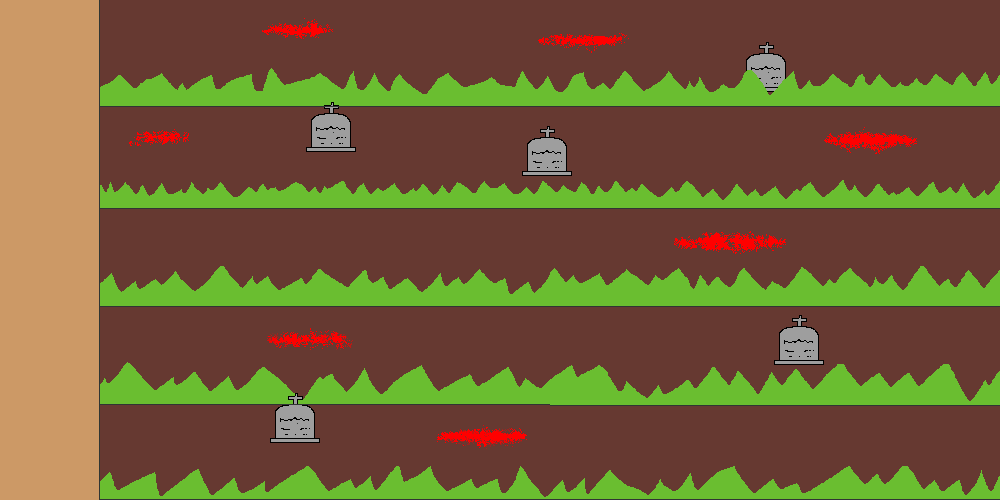
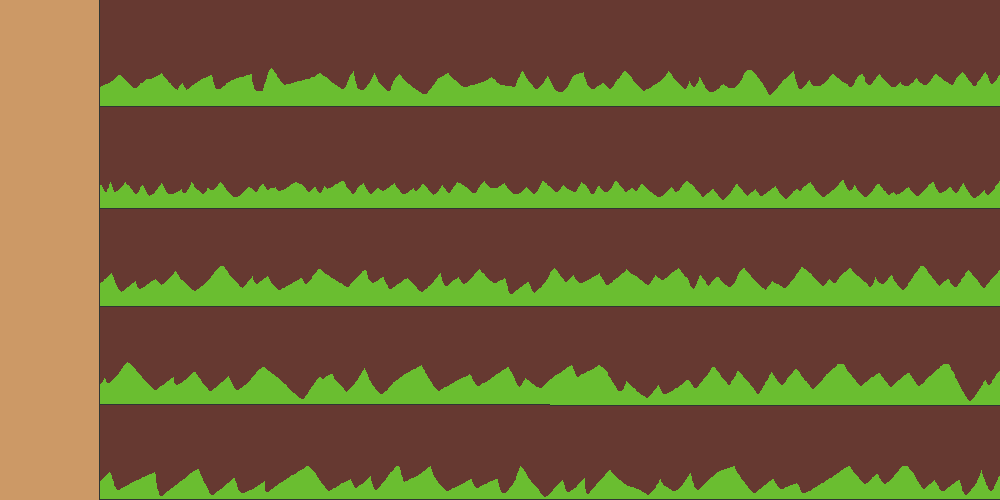
change background

diff --git a/sketch.js b/sketch.js
@@ -91,9 +91,6 @@ function preload()
     howToPlay_preload();
     credit_preload();
     hit_sound = loadSound( 'assets/sounds/hit.wav' );
-    bg = loadImage( 'assets/images/game_background/background.png' );
-    //bg1 = loadImage( 'assets/images/game_background/background-1.png' );
-    //bg2 = loadImage( 'assets/images/game_background/background-2.png' );
     left_bullet_img = loadImage( 'assets/images/left_bullet.png' );
 }
 
@@ -139,10 +136,18 @@ function setup()
 
 function draw()
 {
-
-    background( 110 );
+    background ( 110 )
     //console.log(frameCount)
-    //console.log(ready_for_day3)
+    //console.log(zombie_day2_length)
+
+    let zombie_day1_length = zombies_day1_wave1.length + zombies_day1_wave2.length + zombies_day1_wave3.length +
+    zombies_day1_wave4 + zombies_day1_wave5;
+    let zombie_day2_length = zombies_day2_wave1.length + zombies_day2_wave2.length + zombies_day2_wave3.length +
+    zombies_day2_wave4;
+    let zombie_day3_length = zombies_day3_wave1.length + zombies_day3_wave2.length + zombies_day3_wave3.length +
+    zombies_day3_wave4;
+    let zombie_day4_length = zombies_day4_wave1.length + zombies_day4_wave2.length + zombies_day4_wave3.length +
+    zombies_day4_wave4;
 
     if ( game_mode == MAIN_MENU )
     {
@@ -170,7 +175,25 @@ function draw()
         ready_for_day1 = true;
 
         imageMode( CORNER );
-        background( bg );
+
+        //change background per day
+        if ( zombie_day1_length != 0)
+        {
+            background ( bg );
+        }
+        else if ( zombie_day2_length != 0 )
+        {
+            background ( bg1 );
+        }
+        else if ( zombie_day3_length != 0 )
+        {
+            background ( bg2 );
+        }
+        else if ( zombie_day4_length != 0 )
+        {
+            background ( bg3 );
+        }
+
         //draw alines and wall of game_background class
         drawing_lines_characters();
         //drawing_wall();
@@ -218,14 +241,14 @@ function draw()
         game_over();
     }
 
-    let zombie_day1_length = zombies_day1_wave1.length + zombies_day1_wave2.length + zombies_day1_wave3.length +
+    /*let zombie_day1_length = zombies_day1_wave1.length + zombies_day1_wave2.length + zombies_day1_wave3.length +
         zombies_day1_wave4 + zombies_day1_wave5;
     let zombie_day2_length = zombies_day2_wave1.length + zombies_day2_wave2.length + zombies_day2_wave3.length +
         zombies_day2_wave4;
     let zombie_day3_length = zombies_day3_wave1.length + zombies_day3_wave2.length + zombies_day3_wave3.length +
         zombies_day3_wave4;
     let zombie_day4_length = zombies_day4_wave1.length + zombies_day4_wave2.length + zombies_day4_wave3.length +
-        zombies_day4_wave4;
+        zombies_day4_wave4;*/
 
     //if there are no zombie on day1 then day2 start!
     if ( zombie_day1_length <= 0 && game_mode != GAME_OVER )
@@ -259,7 +282,6 @@ function draw()
             game_mode = GAME_START;
             day2_fadeout_img();
             zombie_day2_draw();
-
         }
     }
 

diff --git a/game_background.js b/game_background.js
@@ -1,8 +1,17 @@
+let day2_bg_check = false;
+let day3_bg_check = false;
+let day4_bg_check = false;
+
 function preload_characters()
 {
     character_img = loadImage('assets/images/player_and_ai/player(no arms).png')
     character_arm_img = loadImage('assets/images/player_and_ai/arm_and_gun.png')
     gun_recoil = loadImage('assets/images/player_and_ai/gun_recoil.gif')
+
+    bg = loadImage( 'assets/images/game_background/background.png' );
+    bg1 = loadImage( 'assets/images/game_background/background_1.png' );
+    bg2 = loadImage( 'assets/images/game_background/background_2.png' );
+    bg3 = loadImage( 'assets/images/game_background/background_3.png' );
 }
 
 function drawing_lines_characters()//drawing lines and characters
@@ -47,8 +56,3 @@ function drawing_lines_characters()//drawing lines and characters
         }
     }
 }
-
-/*function mouseClicked()
-{
-    gun_recoil.reset();
-}*/
